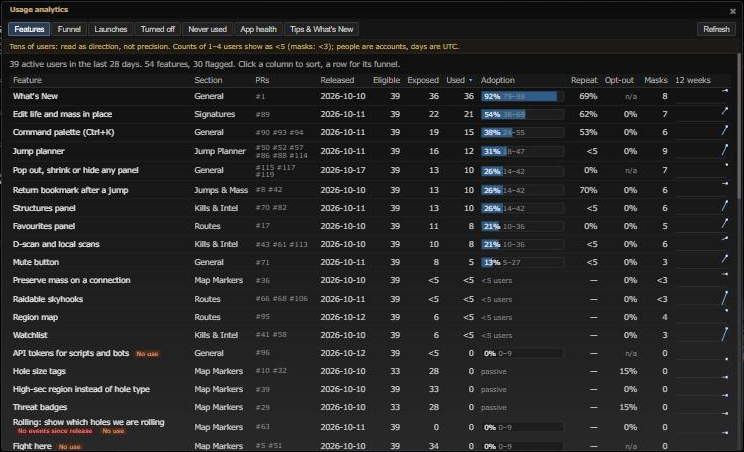
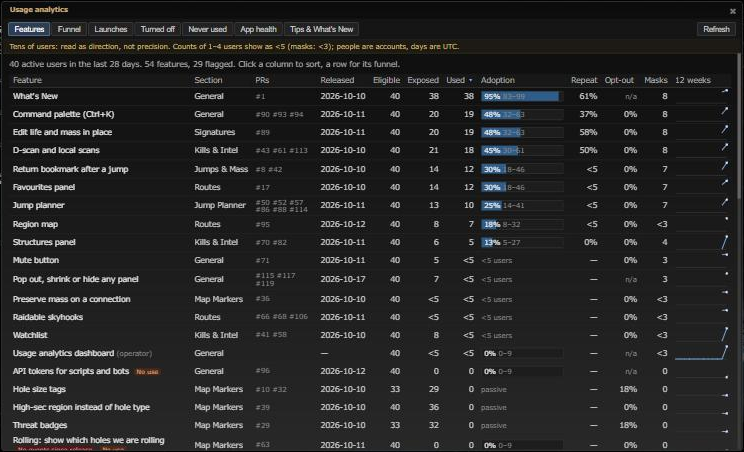
Change log and docs: analytics dashboard review fixes, menu screenshot

diff --git a/docker/README.md b/docker/README.md
@@ -748,18 +748,24 @@ of the feature's `use` actions, never `shown`, `disabled` or a setting change un
 
 | Tab | Shows |
 | --- | --- |
-| Features | Every catalog feature, used or not: release date (earliest What's New date of its PRs), eligible (users active in 28 days minus those whose latest daily snapshot has it off), exposed (had it on screen or used it), used, adoption = used ÷ eligible with a Wilson 95% interval, repeat (share of users with 3+ use-days in 28), opt-out, masks using it, weekly users for 12 weeks. Flags: *no events since release* (released 7+ days ago and nothing at all recorded: check its tracking) and *no use* (an active feature nobody used in 28 days). Click a row for its funnel. |
-| Funnel | One feature: eligible -> exposed -> tried -> repeat -> retained (used in two weeks in a row of the last four), each step as a share of the one before with a 95% interval, and the median time from first seeing it to first using it (from first/last times per user). |
-| Launches | The last 15 What's New PRs: of the users active since the release date, the share who used the feature by day 1, 7, 14 and 28. Flagged when under 10% by day 14. A follow-up PR counts every use of its feature. |
+| Features | Every catalog feature, used or not: release date (earliest What's New date of its PRs), eligible (users active in 28 days minus those whose latest daily snapshot has it off), exposed (had it on screen or used it), used, adoption = eligible users who used it ÷ eligible, with a Wilson 95% interval, repeat (share of users with 3+ use-days in 28), opt-out, masks using it, weekly users for 12 weeks. Flags: *no events since release* (released 7+ days ago and nothing at all recorded: check its tracking) and *no use* (an active feature nobody used in 28 days). Click a row for its funnel. |
+| Funnel | One feature, of its eligible users: eligible -> exposed -> tried -> repeat (3+ use-days) and retained (used in two weeks in a row of the last four), each as a share of the step it names with a 95% interval (repeat and retained are both shares of tried), and the median time from first seeing it to first using it (from first/last times per user). |
+| Launches | The last 15 What's New PRs: of the users active since the release date, the share who used the feature by day 1, 7, 14 and 28. Flagged when under 10% by day 14. A follow-up PR counts every use of its feature. A release before the first day with data shows "no data". |
 | Turned off | Features with a Settings toggle: users with it off now, and users who switched it off in 28 days, split into after using it and without trying it. |
-| Never used | Released over 60 days ago and fewer than 5 users in the kept data, or nobody used it on 3+ days: candidates to prune, rethink or make easier to find. Younger features are listed apart. |
+| Never used | Released over 60 days ago and, for an active feature, fewer than 5 users in the kept data or nobody using it on 3+ days; for a passive one (drawn on the map, no use events), fewer than 5 users who had it on screen: candidates to prune, rethink or make easier to find. Younger features are listed apart. |
 | App health | Daily (median of the last 7 full days), weekly and 28-day active users (real keyboard/mouse input), weekly ÷ 28-day, new users, masks where someone used a feature, and a weekday x UTC-hour heatmap. The heatmap counts user-days by the hour each feature's first event of the day happened (the daily rows keep only that minute), so late hours of long sessions are under-counted. New users: everyone looks new again after the pseudonym salt is replaced (every `ANALYTICS_DAYS`). |
-| Tips & What's New | Feature tip events (`hints` actions, once tips ship) and, per release, the share of active users who opened What's New themselves within 7 days (its automatic opening after an update isn't counted). |
+| Tips & What's New | Per feature: users shown its tip (`hint_shown`), who acted on it (`hint_acted`) and who used the feature within 7 days of first seeing it; tip outcomes of all tips together (feature `hints`: `tip_shown`, `acted`, `got_it`, `closed`, `ignored`, `section_off`; they don't say which tip, so no per-tip split); "Show feature tips" turned off (setting_off) and off now (snapshot). Empty until feature tips ship. Per release: the share of active users who opened What's New themselves within 7 days (its automatic opening after an update isn't counted). |
 
 Small numbers: tens of users make every number a direction, not a measurement (the page says so). User counts of 1-4
-show as "<5" and mask counts of 1-2 as "<3"; percentages of such counts are left out, eligible becomes a range when the
-number turned off is under 5, and a split is hidden when one part is. Answers are aggregates only (no ids, no per-user
-rows) and are cached for 2 minutes in `cache/`.
+show as "<5" and mask counts of 1-2 as "<3"; percentages of such counts are left out and a split is hidden when one part
+is. Suppression is per cell: it doesn't stop differencing (active minus eligible can be a small number turned off); fine
+for an operator-only view that never shows ids or per-user rows. Answers are cached for 2 minutes in `cache/` (files
+older than a day are cleaned up).
+
+Salt replacement: every `ANALYTICS_DAYS` the pseudonym salt is replaced and everyone gets a new id, so for one window
+length afterwards people active before and after count twice (active users, eligible, used, masks...). Each view then
+shows a banner with the date and until when; repeat, retained, the funnel and time to first use only use data since the
+replacement, and new users aren't counted for windows that include it.
 
 - Try it in the dev stack with made-up data: `docker compose -f docker-compose.dev.yml exec -T app php docker/dev-seed-analytics.php`
   (40 fake users over 35 days; `--clear` removes them), with `ANALYTICS_ADMINS` set to your dev character's ID

diff --git a/changes/2026-10-18-analytics-dashboard/README.md b/changes/2026-10-18-analytics-dashboard/README.md
@@ -12,7 +12,8 @@ and how often they are turned off, from the first-party usage counters (#120). O
 
 | Before | After |
 | --- | --- |
-| ![before](before.png) | ![after](after.png) |
+| ![before](before.png) | ![after: the user menu button](after-menu.png) |
+| | ![after: the Features tab](after.png) |
 
 Before: the user menu (character name, top right). After: the new "Usage analytics" button there opens the dashboard,
 here its Features tab with made-up dev data (`docker/dev-seed-analytics.php`).
@@ -27,10 +28,15 @@ No toggle, because it is an operator tool, not a user feature: it is off unless 
 - **Views** (one dialog, seven tabs): Features (every catalog feature, also unused ones: eligible, exposed, used,
   adoption with a Wilson 95% interval, repeat, opt-out, masks, 12-week sparkline, flags for "no events since release"
   and active features nobody used), Funnel (eligible -> exposed -> tried -> repeat -> retained, median time from first
-  seen to first use), Launches (last 15 What's New PRs, tried by day 1/7/14/28, flag under 10% at day 14), Turned off
-  (after using it vs without trying it), Never used (prune candidates older than 60 days), App health (daily / weekly /
-  28-day active users, new users, masks, active-hours heatmap) and Tips & What's New (feature tip events once tips ship,
-  What's New opens per release).
+  seen to first use; each step names its base), Launches (last 15 What's New PRs, tried by day 1/7/14/28, flag under 10%
+  at day 14, "no data" before the first data day), Turned off (after using it vs without trying it), Never used (prune
+  candidates older than 60 days; passive features judged by how many saw them), App health (daily / weekly / 28-day
+  active users, new users, masks, active-hours heatmap) and Tips & What's New (per feature: tip shown, acted on, used
+  within 7 days; tip outcomes for all tips together, since outcome events don't name the tip; "Show feature tips" off
+  rate; What's New opens per release). The tips part stays empty until feature tips ship.
+- **Salt replacement.** Every view shows a banner when the pseudonym salt was replaced inside its window (people count
+  twice until one window length later); repeat, retained, the funnel and time to first use only use data since then,
+  new users aren't counted across it.
 - **Heatmap.** The daily table keeps the minute of each feature/action's first event of the day (`firstMinute`), so the
   heatmap counts user-days by the UTC hour things first happened; activity late in a long session is under-counted (said
   on the page).
@@ -38,9 +44,9 @@ No toggle, because it is an operator tool, not a user feature: it is off unless 
   character must be in `ANALYTICS_ADMINS` on every request (403 otherwise, no detail; `mode=access` answers
   `{admin: false}` to other logged-in users so the page can hide the entry points). Read only; missing tables read as no
   data and are never created. Aggregates only, never a uid or per-user row; user counts of 1-4 come back as "<5", mask
-  counts of 1-2 as "<3", percentages of suppressed counts are left out, "eligible" becomes a range when the number turned
-  off is suppressed, and the after/without split is hidden when one part is small. 2-minute file cache in `cache/`
-  (aggregates only).
+  counts of 1-2 as "<3", percentages of suppressed counts are left out and the after/without split is hidden when one
+  part is small. Suppression is per cell (differences between cells aren't prevented: operator-only, no per-user rows).
+  2-minute file cache in `cache/` per view (aggregates only), files older than a day cleaned up.
 - **Client** `app/js/fork/analytics-dashboard.js` + `app/css/fork/analytics-dashboard.css`: plain tables, CSS bars and
   inline-SVG sparklines, sortable columns, a row opens its funnel. No chart library, CDN or third-party host. Entry points:
   a "Usage analytics" button in the user menu and Ctrl+K "Usage analytics" (`analytics.open`), both added only after the
